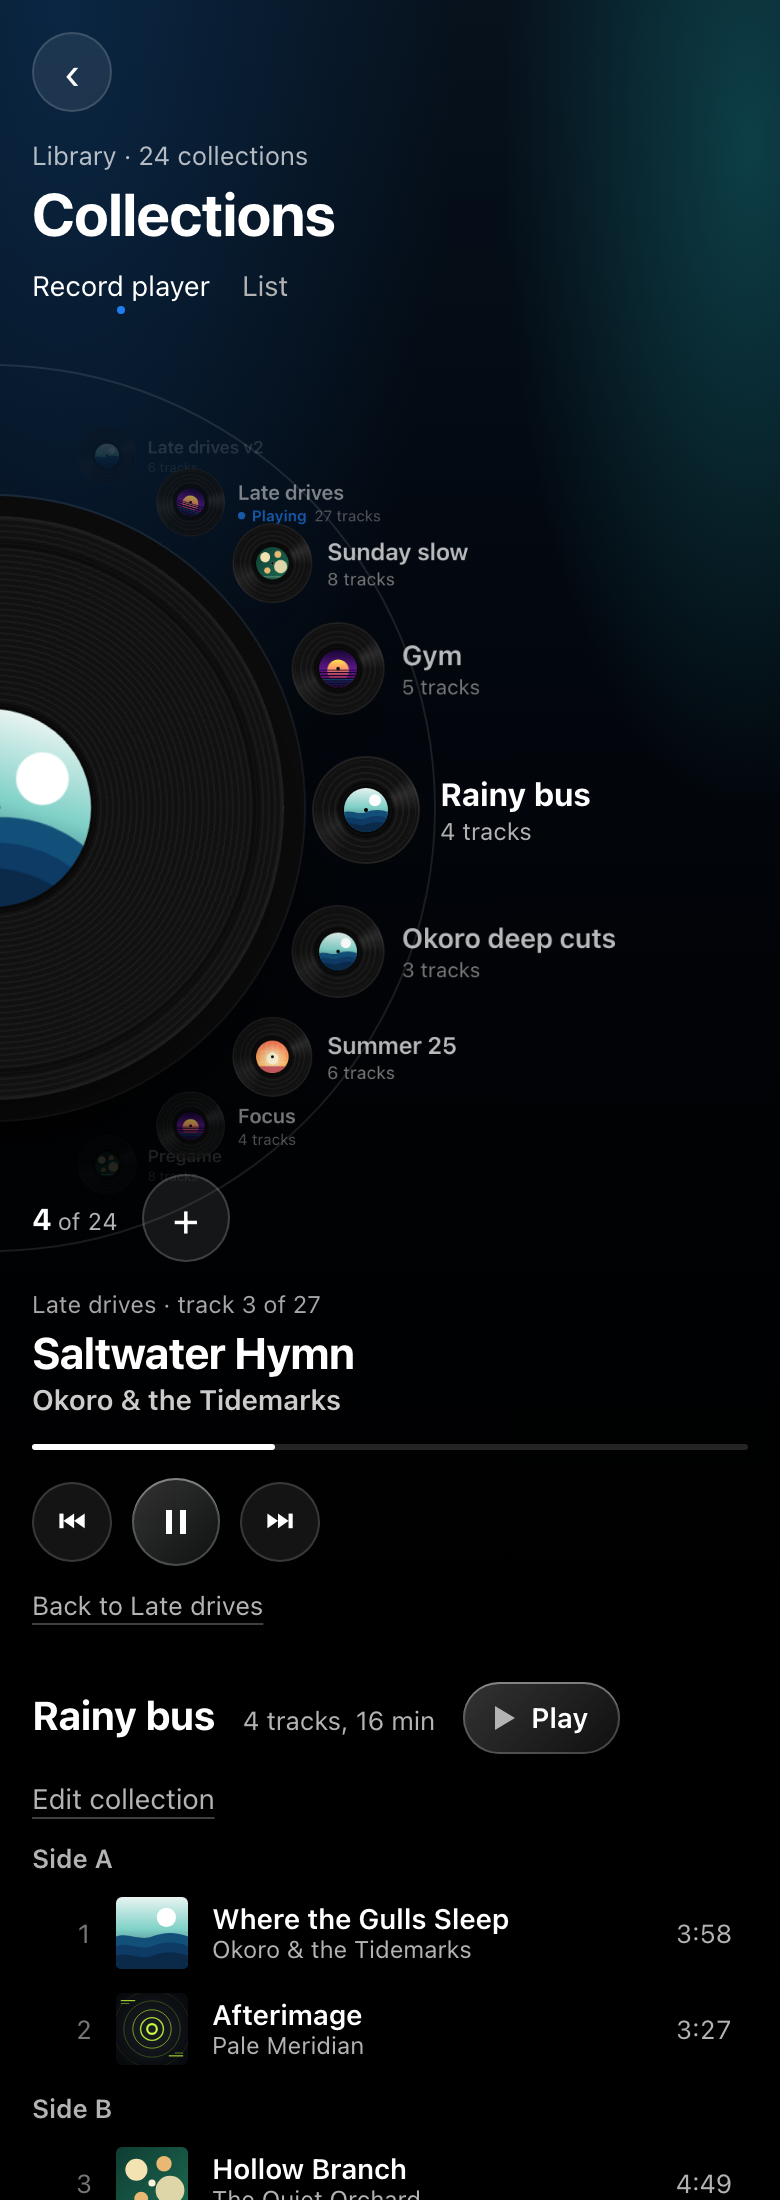
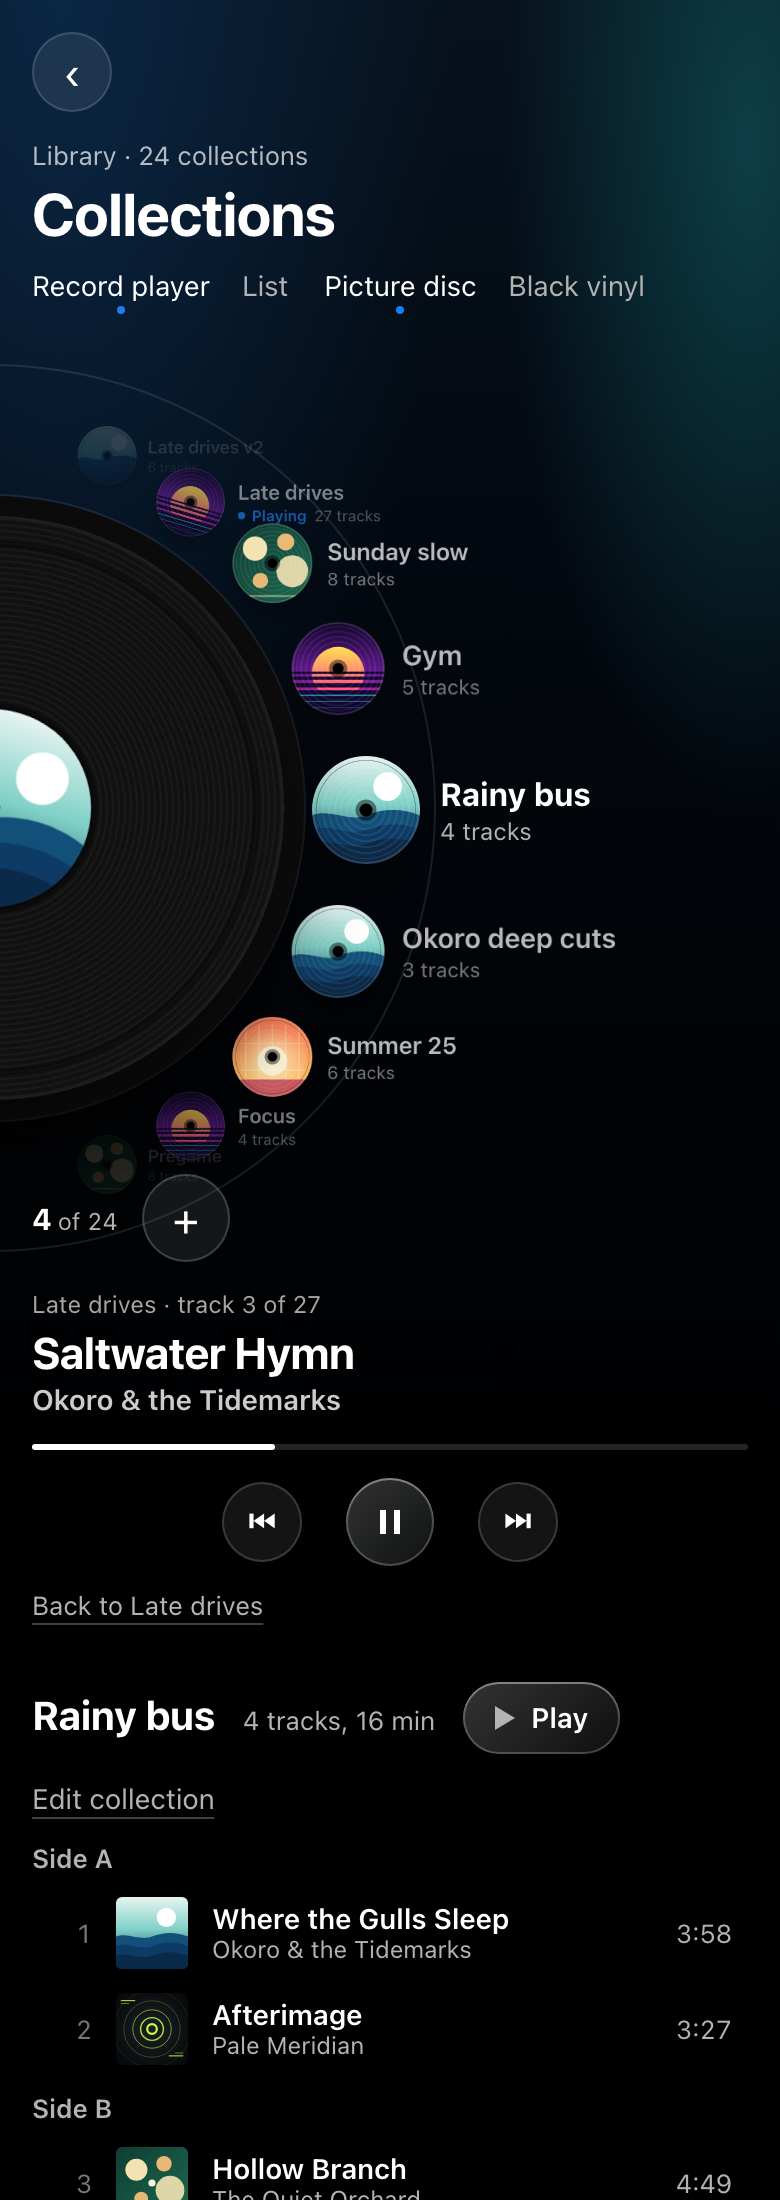
Plan #339: a Records switch (picture disc or black vinyl), centred phone controls
Owner, 23 Oct: keep both looks for the wheel's records, chosen per device,
and centre the iPhone's playback buttons.

diff --git a/docs/plans/339-collections.md b/docs/plans/339-collections.md
@@ -176,7 +176,8 @@ Recorded on #339 (comment of 23 Oct).
 
 - **The prototype** (private): https://claude.ai/artifact/2J5qUxPQRrXSFa1jyzuRx7. **Screenshots:** `docs/design-previews/339/`.
   - `mac-record-player.png` (on the playing collection), `mac-record-player-browsing.png` (looking at another while one plays),
-    `phone-record-player.png` and `phone-record-player-browsing.png` are the chosen direction.
+    `mac-record-player-vinyl.png` (the Black vinyl choice), `phone-record-player.png` and `phone-record-player-browsing.png`
+    are the chosen direction.
   - `*-spines`, `*-crate`, `*-ledge`, `*-turntable` and `*-plain` are the variants explored on the way, kept for the record.
 - **The wheel:** rows on the right half of a dial whose hub sits on the left edge. A row is a small picture disc (72 on the Mac,
   52 on the iPhone): the collection's first cover printed edge to edge, faint grooves over it and a centre hole (owner, 23 Oct;
@@ -188,8 +189,11 @@ Recorded on #339 (comment of 23 Oct).
 - **The turntable (Mac):** a deck in the app's glass, the platter seen at an angle (a circle flattened to an ellipse, no 3D library),
   a tonearm that swings onto the record when it plays, the hovering cover (above), and now playing on the deck's right (on the
   iPhone, under it), with "Back to {name}" while browsing.
+- **A Records switch** (Picture disc / Black vinyl) sits beside Record player / List, remembered per device (owner, 23 Oct):
+  picture disc is the default; black vinyl shows the rows' records as vinyl with the cover as a small label. Changing it
+  redraws only the wheel.
 - **The iPhone's record:** the wheel's hub is the playing record (the hub's radius, its label the current track's cover,
-  a dark platter rim), turning at 33⅓ rpm while playing and still when paused. The count and + sit under the wheel.
+  a dark platter rim), turning at 33⅓ rpm while playing and still when paused. The count and + sit under the wheel. Under it, now playing, with the previous, play and next buttons centred (owner, 23 Oct).
 - **The queue:** Side A and Side B columns on the Mac (one column on the iPhone); the current track carries the #324
   now-playing glyph in the accent colour.
 - **Colour:** the page takes the front record's cover colours, as the release page does.
